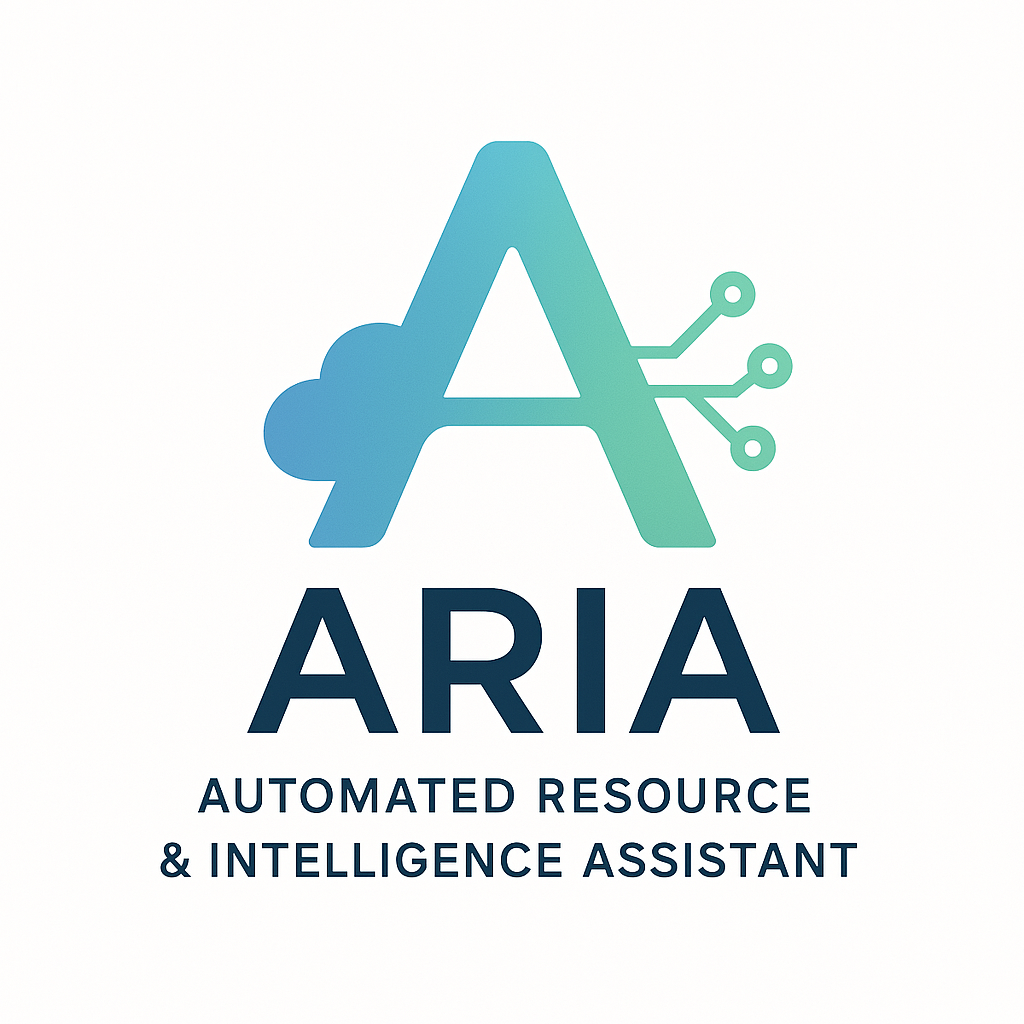
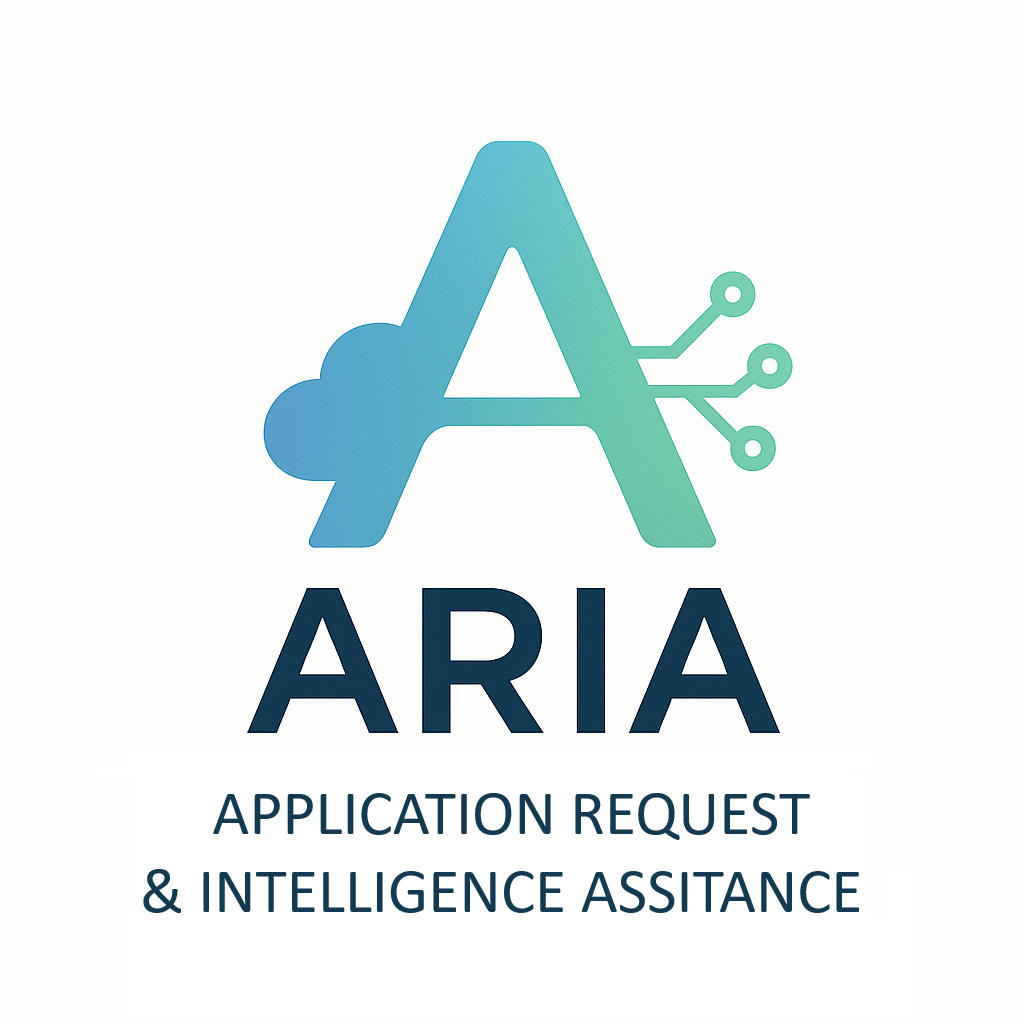
updated sharepoint list steps

Changed region(s): [[0.125, 0.75, 0.8438, 0.9062]]

diff --git a/readme.md b/readme.md
@@ -1,9 +1,11 @@
-# Lab: Building AppWise – An Enterprise Application Management Agent in Microsoft Copilot Studio
+# Lab: Building ARIA – An Enterprise Application Management Agent in Microsoft Copilot Studio
+
+  ![](images/ARIA.png)
 
 ## Table of Contents
 1. Overview
 2. Learning Objectives
-3. Lab Scenario: Meet AppWise
+3. Lab Scenario: Meet Aria
 4. Prerequisites
 5. Part 1: Environment Setup and Access
 6. Part 2: Creating Your First Agent
@@ -20,7 +22,7 @@
 
 ## Overview
 
-In this lab, you will create **AppWise**, an intelligent AI agent for enterprise application management. This hands-on guide walks you through building an assistant that helps users discover, search, and request applications using SharePoint as the authoritative data source.
+In this lab, you will create **ARIA**, that stands for Application Request & Intelligence Assistance. Aria is an intelligent AI agent for enterprise application management. This hands-on guide walks you through building an assistant that helps users discover, search, and request applications using SharePoint as the authoritative data source.
 
 **Estimated Time**: 45-60 minutes  
 **Difficulty Level**: Beginner to Intermediate  
@@ -29,7 +31,7 @@ In this lab, you will create **AppWise**, an intelligent AI agent for enterprise
 ## Learning Objectives
 
 By the end of this lab, you will be able to:
-* Build AppWise, a specialized enterprise application management agent
+* Build Aria, a specialized enterprise application management agent
 * Configure intelligent application search and discovery capabilities
 * Implement semantic matching for application requests
 * Create dynamic actions using SharePoint List connectors
@@ -40,9 +42,9 @@ By the end of this lab, you will be able to:
 
 ---
 
-## Lab Scenario: Meet AppWise
+## Lab Scenario: Meet Aria
 
-**AppWise** is your organization’s intelligent assistant for managing enterprise applications. As employees increasingly need various software tools, AppWise serves as the central hub for:
+**Aria**, that stands for Application Request & Intelligence Assistance, is your organization’s intelligent assistant for managing enterprise applications. As employees increasingly need various software tools, Aria serves as the central hub for:
 
 - **Discovering available applications** in your organization's approved software catalog
 - **Searching by functionality** (e.g., "I need something for video editing")
@@ -50,7 +52,7 @@ By the end of this lab, you will be able to:
 - **Streamlining application requests** through a guided workflow
 - **Maintaining governance** by using SharePoint as the single source of truth
 
-AppWise embodies a helpful, concise, and proactive personality, ensuring users get quick answers while maintaining enterprise compliance through direct SharePoint List integration via Power Platform connectors.
+Aria embodies a helpful, concise, and proactive personality, ensuring users get quick answers while maintaining enterprise compliance through direct SharePoint List integration via Power Platform connectors.
 
 ---
 
@@ -66,7 +68,7 @@ Before starting, ensure you have:
 
 ## Part 1: Create the Required SharePoint Lists
 
-Before beginning the AppWise agent configuration, you need to create two SharePoint Lists: one for the application catalog and another for application requests.
+Before beginning the Aria agent configuration, you need to create two SharePoint Lists: one for the application catalog and another for application requests.
 
 ### 🧱  Step A: Navigate to SharePoint
 
@@ -135,7 +137,7 @@ The Applications list needs only one additional column (Application Name already
 ---
 ### 🧱  Step C:  Add Application Data
 
-To properly test your AppWise agent, you need to populate the list with enterprise applications. You have two options:
+To properly test your Aria agent, you need to populate the list with enterprise applications. You have two options:
 
 ### Option A: Quick Import (Recommended)
 For faster setup, you can use SharePoint's Quick Edit feature:
@@ -281,7 +283,7 @@ Before moving to Part 1, verify:
 ---
 
 **⚠ Important Notes**: 
-- The **Applications** list serves as the catalog that AppWise searches through
+- The **Applications** list serves as the catalog that Aria searches through
 - The **Application Requests** list will be automatically populated when users submit new requests through the agent
 - Make sure both lists are accessible to users who will interact with the agent
 
@@ -318,15 +320,15 @@ Before moving to Part 1, verify:
 
 
 2. **Configure Basic Settings**
-   - **Agent Name**: `AppWise`
-   - **Description**: `Intelligent assistant for managing enterprise applications`
+   - **Agent Name**: `Aria`
+   - **Description**: `Application Request & Intelligence Assistance`
    - **Instructions**: 
      Copy and paste the following instructions:
 
     ```
     🧠 AI Agent Persona: Application Assistant.
-    Name: AppWise.
-    Role: Intelligent assistant for managing enterprise applications.
+    Name: Aria.
+    Role: Application Request & Intelligence Assistance for managing enterprise applications.
     Tone: Helpful, concise, and proactive.
     Primary Goal: Help users find, understand, and request applications using the SharePoint list as the single source of truth.
     
@@ -682,7 +684,7 @@ This is your central hub for managing and evolving your agent.
 #### ⏭ What’s Next?
 
 
-In the next section of this lab, you’ll learn how to extend AppWise’s capabilities by adding a Connector that allows the agent to create new application requests directly in the SharePoint List. This will complete the end-to-end workflow from discovery to request submission.
+In the next section of this lab, you’ll learn how to extend Aria’s capabilities by adding a Connector that allows the agent to create new application requests directly in the SharePoint List. This will complete the end-to-end workflow from discovery to request submission.
 
 ---
 
@@ -708,7 +710,7 @@ In the next section of this lab, you’ll learn how to extend AppWise’s capabi
    
    - Enter the Description:
 
-     `This topic is used exclusively by the AppWise agent to submit a new application request to the IT team after the user has confirmed their intent and provided a business justification. It should only be triggered by the agent as the final step in the application request workflow, never directly by the user.`
+     `This topic is used exclusively by the Aria agent to submit a new application request to the IT team after the user has confirmed their intent and provided a business justification. It should only be triggered by the agent as the final step in the application request workflow, never directly by the user.`
 
 
    - Click **Save**.
